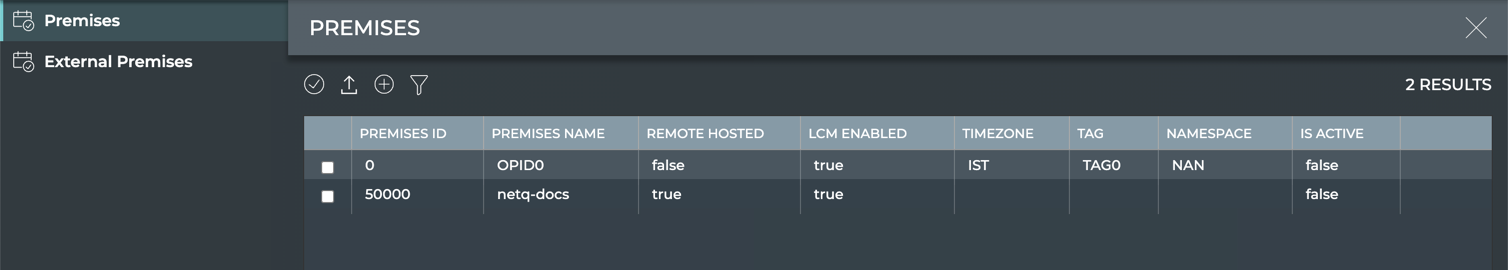
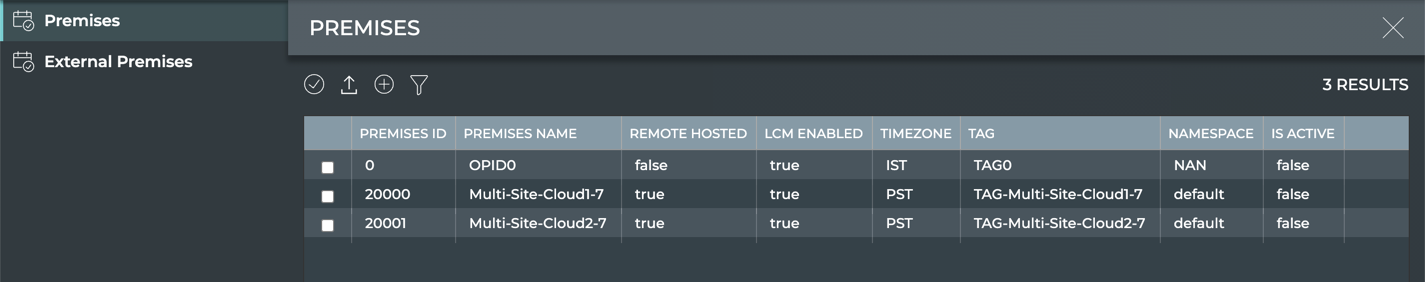
Finalize multisite premises card description

diff --git a/content/cumulus-netq-33/Manage-Configuration/Manage-NetQ-UI/_index.md b/content/cumulus-netq-33/Manage-Configuration/Manage-NetQ-UI/_index.md
@@ -750,15 +750,23 @@ To configure a these premises so that their data can be viewed from one premises
 
 10. Click **Next**.
 
-11. 
+11. Select the OPID associated with the premises you want to connect.
 
-xx. Add more secondary premises by clicking {{<img src="https://icons.cumulusnetworks.com/01-Interface-Essential/43-Remove-Add/add-circle.svg" height="18" width="18">}} and repeating Steps 8-xxx.
+12. Click **Done**.
+
+13. Add more secondary premises by clicking {{<img src="https://icons.cumulusnetworks.com/01-Interface-Essential/43-Remove-Add/add-circle.svg" height="18" width="18">}} and repeating Steps 8-12.
 
 {{< /tab >}}
 
 {{< tab "NetQ Collector" >}}
 
 In this deployment model, the data is stored and can be viewed only from the NetQ UI at the primary premises.
+
+{{<notice note>}}
+
+The primary NetQ premises must be installed before the secondary premises can be added. For the secondary premises, create the premises here, then install them.
+
+{{</notice>}}
 
 1. Open the NetQ UI installed on the NetQ Appliance or VM where the database resides (this is your primary premises).
 
@@ -782,7 +790,21 @@ In this deployment model, the data is stored and can be viewed only from the Net
 
     {{<figure src="/images/netq/premises-card-premises-tab-list-330.png" width="700">}}
 
-9. Add more secondary premises by repeating Steps 6-8.
+9. Select the premises you just created.
+
+10. Click {{<img src="https://icons.cumulusnetworks.com/01-Interface-Essential/04-Login-Logout/login-key-1.svg" height="18" width="18">}} to generate a configuration key.
+
+    {{<figure src="/images/netq/premises-card-premises-tab-generate-key-330.png" width="400">}}
+
+11. Click **Copy** to save the key to a safe place, or click **e-mail** to send it to yourself or other administrator as appropriate.
+
+12. Click **Done**.
+
+13. Repeat steps 6-11 to add more secondary premises.
+
+14. Follow the steps in the {{<link title="Install NetQ Using the Admin UI" text="Admin UI" >}} to install and complete the configuration of these secondary premises, using these keys to activate and connect these premises to the primary NetQ premises.
+
+    {{<figure src="/images/netq/adminui-install-cloud-basic-330.png" width="700">}}
 
 {{< /tab >}}
 
